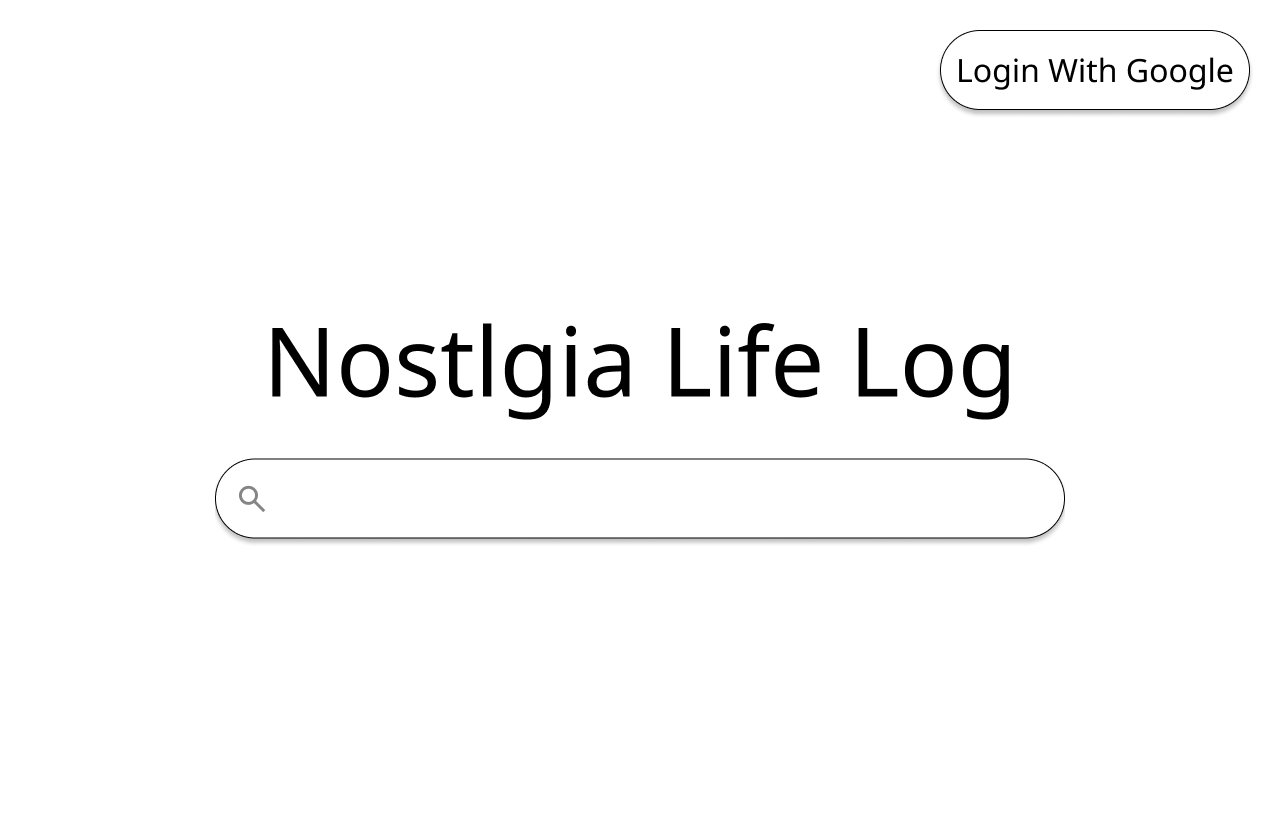
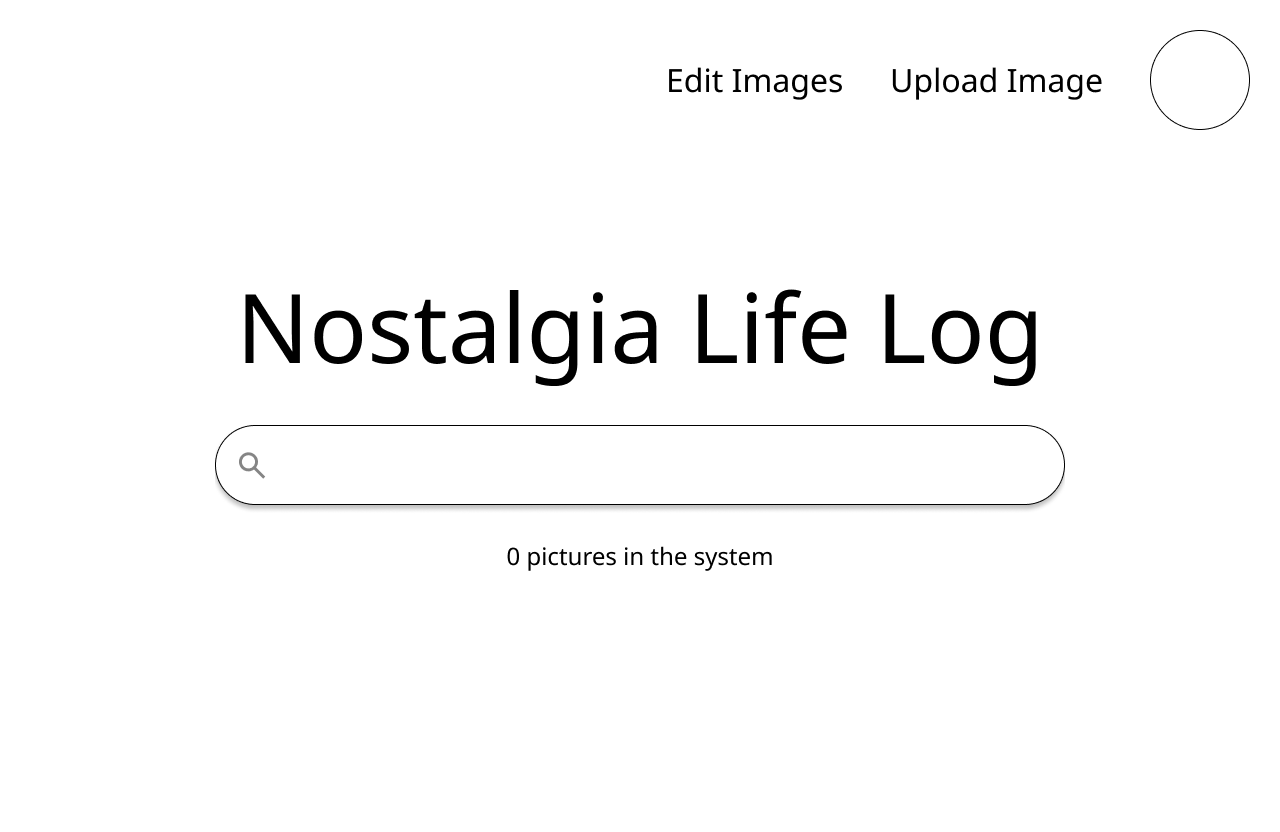
fix small detail

diff --git a/components/about.tsx b/components/about.tsx
@@ -29,7 +29,7 @@ export default function About() {
           >
             <h2 className="text-4xl sm:text-5xl lg:text-6xl font-bold text-balance">About Me</h2>
             <p className="text-lg text-gray-700 leading-relaxed">
-              นักศึกษาวิทยาการคอมพิวเตอร์ ผู้มีความสนใจใน AI และอยากทำงานในต่างประเทศ มีประสบการณ์ในการเข้าร่วมการแข่งขันทางด้านวิชาการหลายๆงาน เช่น การแข่งขันการเขียนโค้ดระดับประเทศ ICPC การแข่งขันงาน Ideathorn เข้าร่วมงานแข่งขัน Mitr Phol AI hackathon ปัจจุบันกำลังทำโปรเจคร่วมกับอาจารย์ในหัวข้อ “ระบบค้นหาภาพด้วยข้อความ”
+              นักศึกษาวิทยาการคอมพิวเตอร์ ผู้มีความสนใจใน AI และอยากทำงานในต่างประเทศ มีประสบการณ์ในการเข้าร่วมการแข่งขันทางด้านวิชาการหลายๆงาน เช่น การแข่งขันการเขียนโค้ดระดับประเทศ ICPC การแข่งขันงาน Ideathorn เข้าร่วมงานแข่งขัน Mitr Phol AI hackathon ปัจจุบันกำลังทำโปรเจคร่วมกับอาจารย์ในหัวข้อ “ระบบค้นหาภาพด้วยข้อความ” ผมเป็นชายผู้มีความฝันที่อยากจะสร้าง AI vtuber เป็นของตัวเองให้ได้
             </p>
           </div>
         </div>

diff --git a/components/hero.tsx b/components/hero.tsx
@@ -20,7 +20,7 @@ export default function Hero() {
           >
             <h1 className="text-4xl sm:text-5xl lg:text-6xl font-bold text-balance">Welcome to P'Gun's Portfolio.</h1>
             <p className="text-lg text-muted-foreground max-w-lg">
-              Explore my work, skills, and experiences. Let's create something amazing together.
+              สวัสดีครับผมพี่กันต์ กันต์ธีภพ กล่ำฉ่ำ ยินดีที่ได้รู้จักครับ
             </p>
           </div>
 
